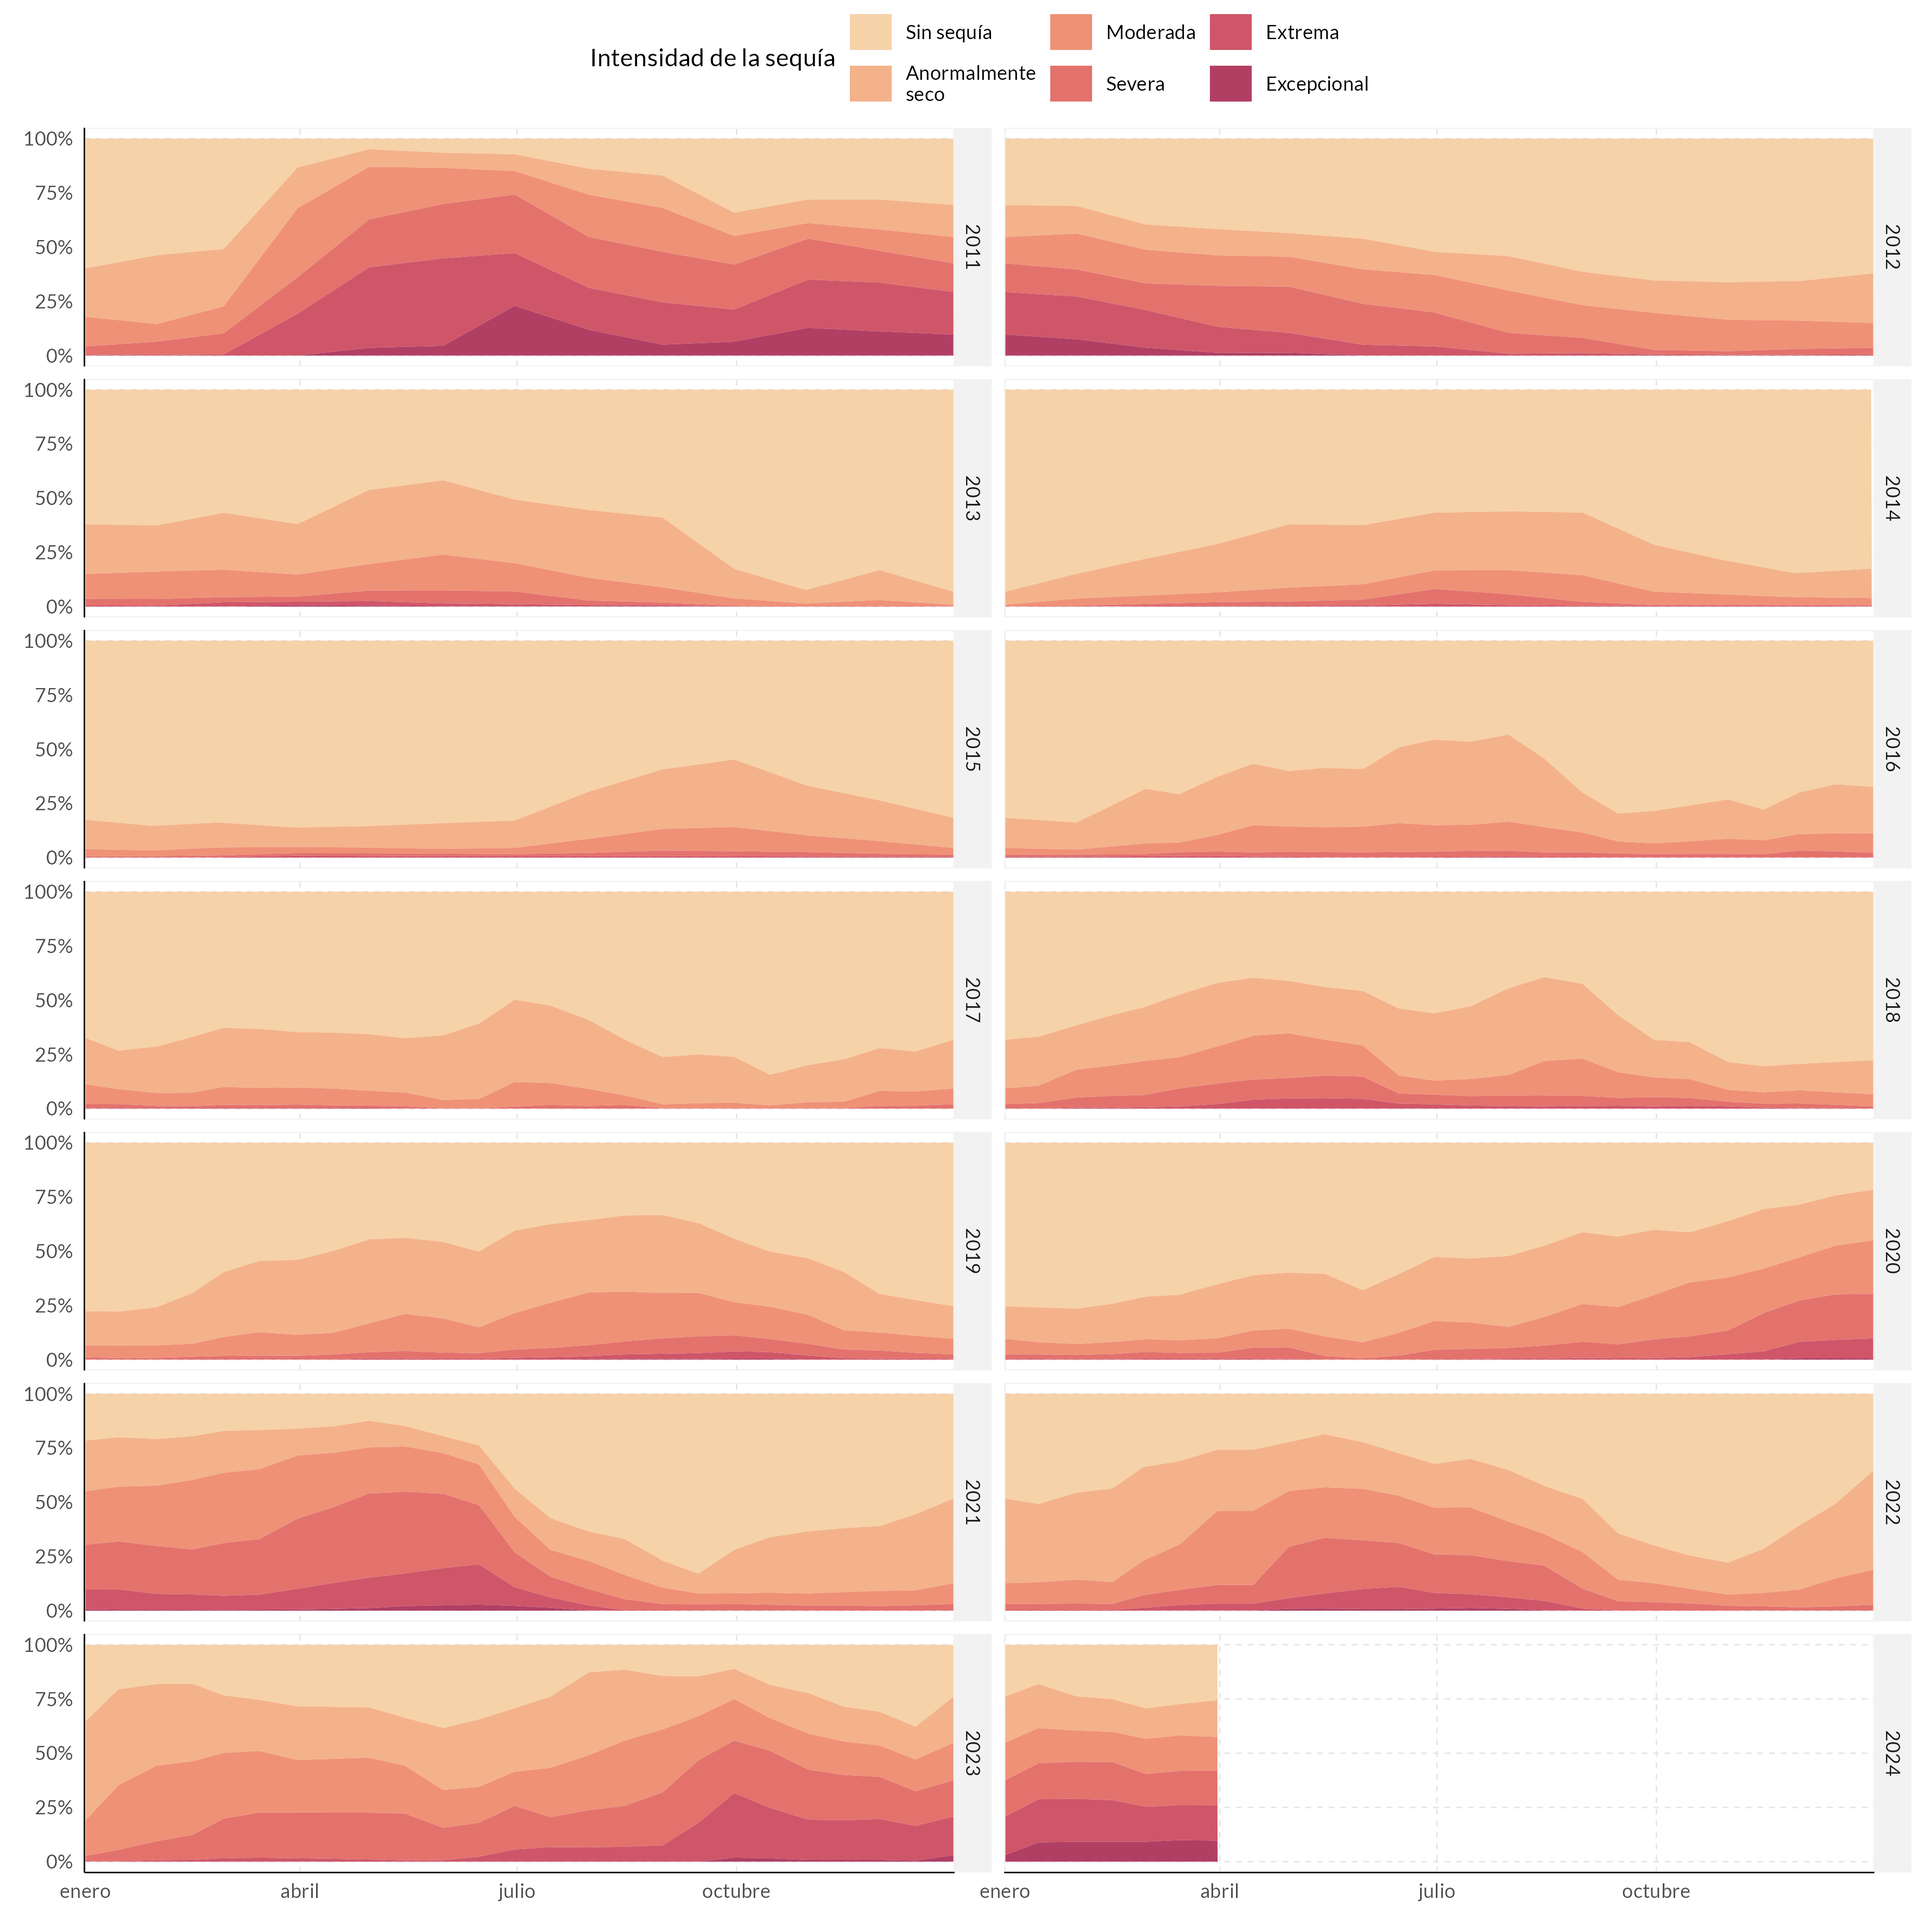
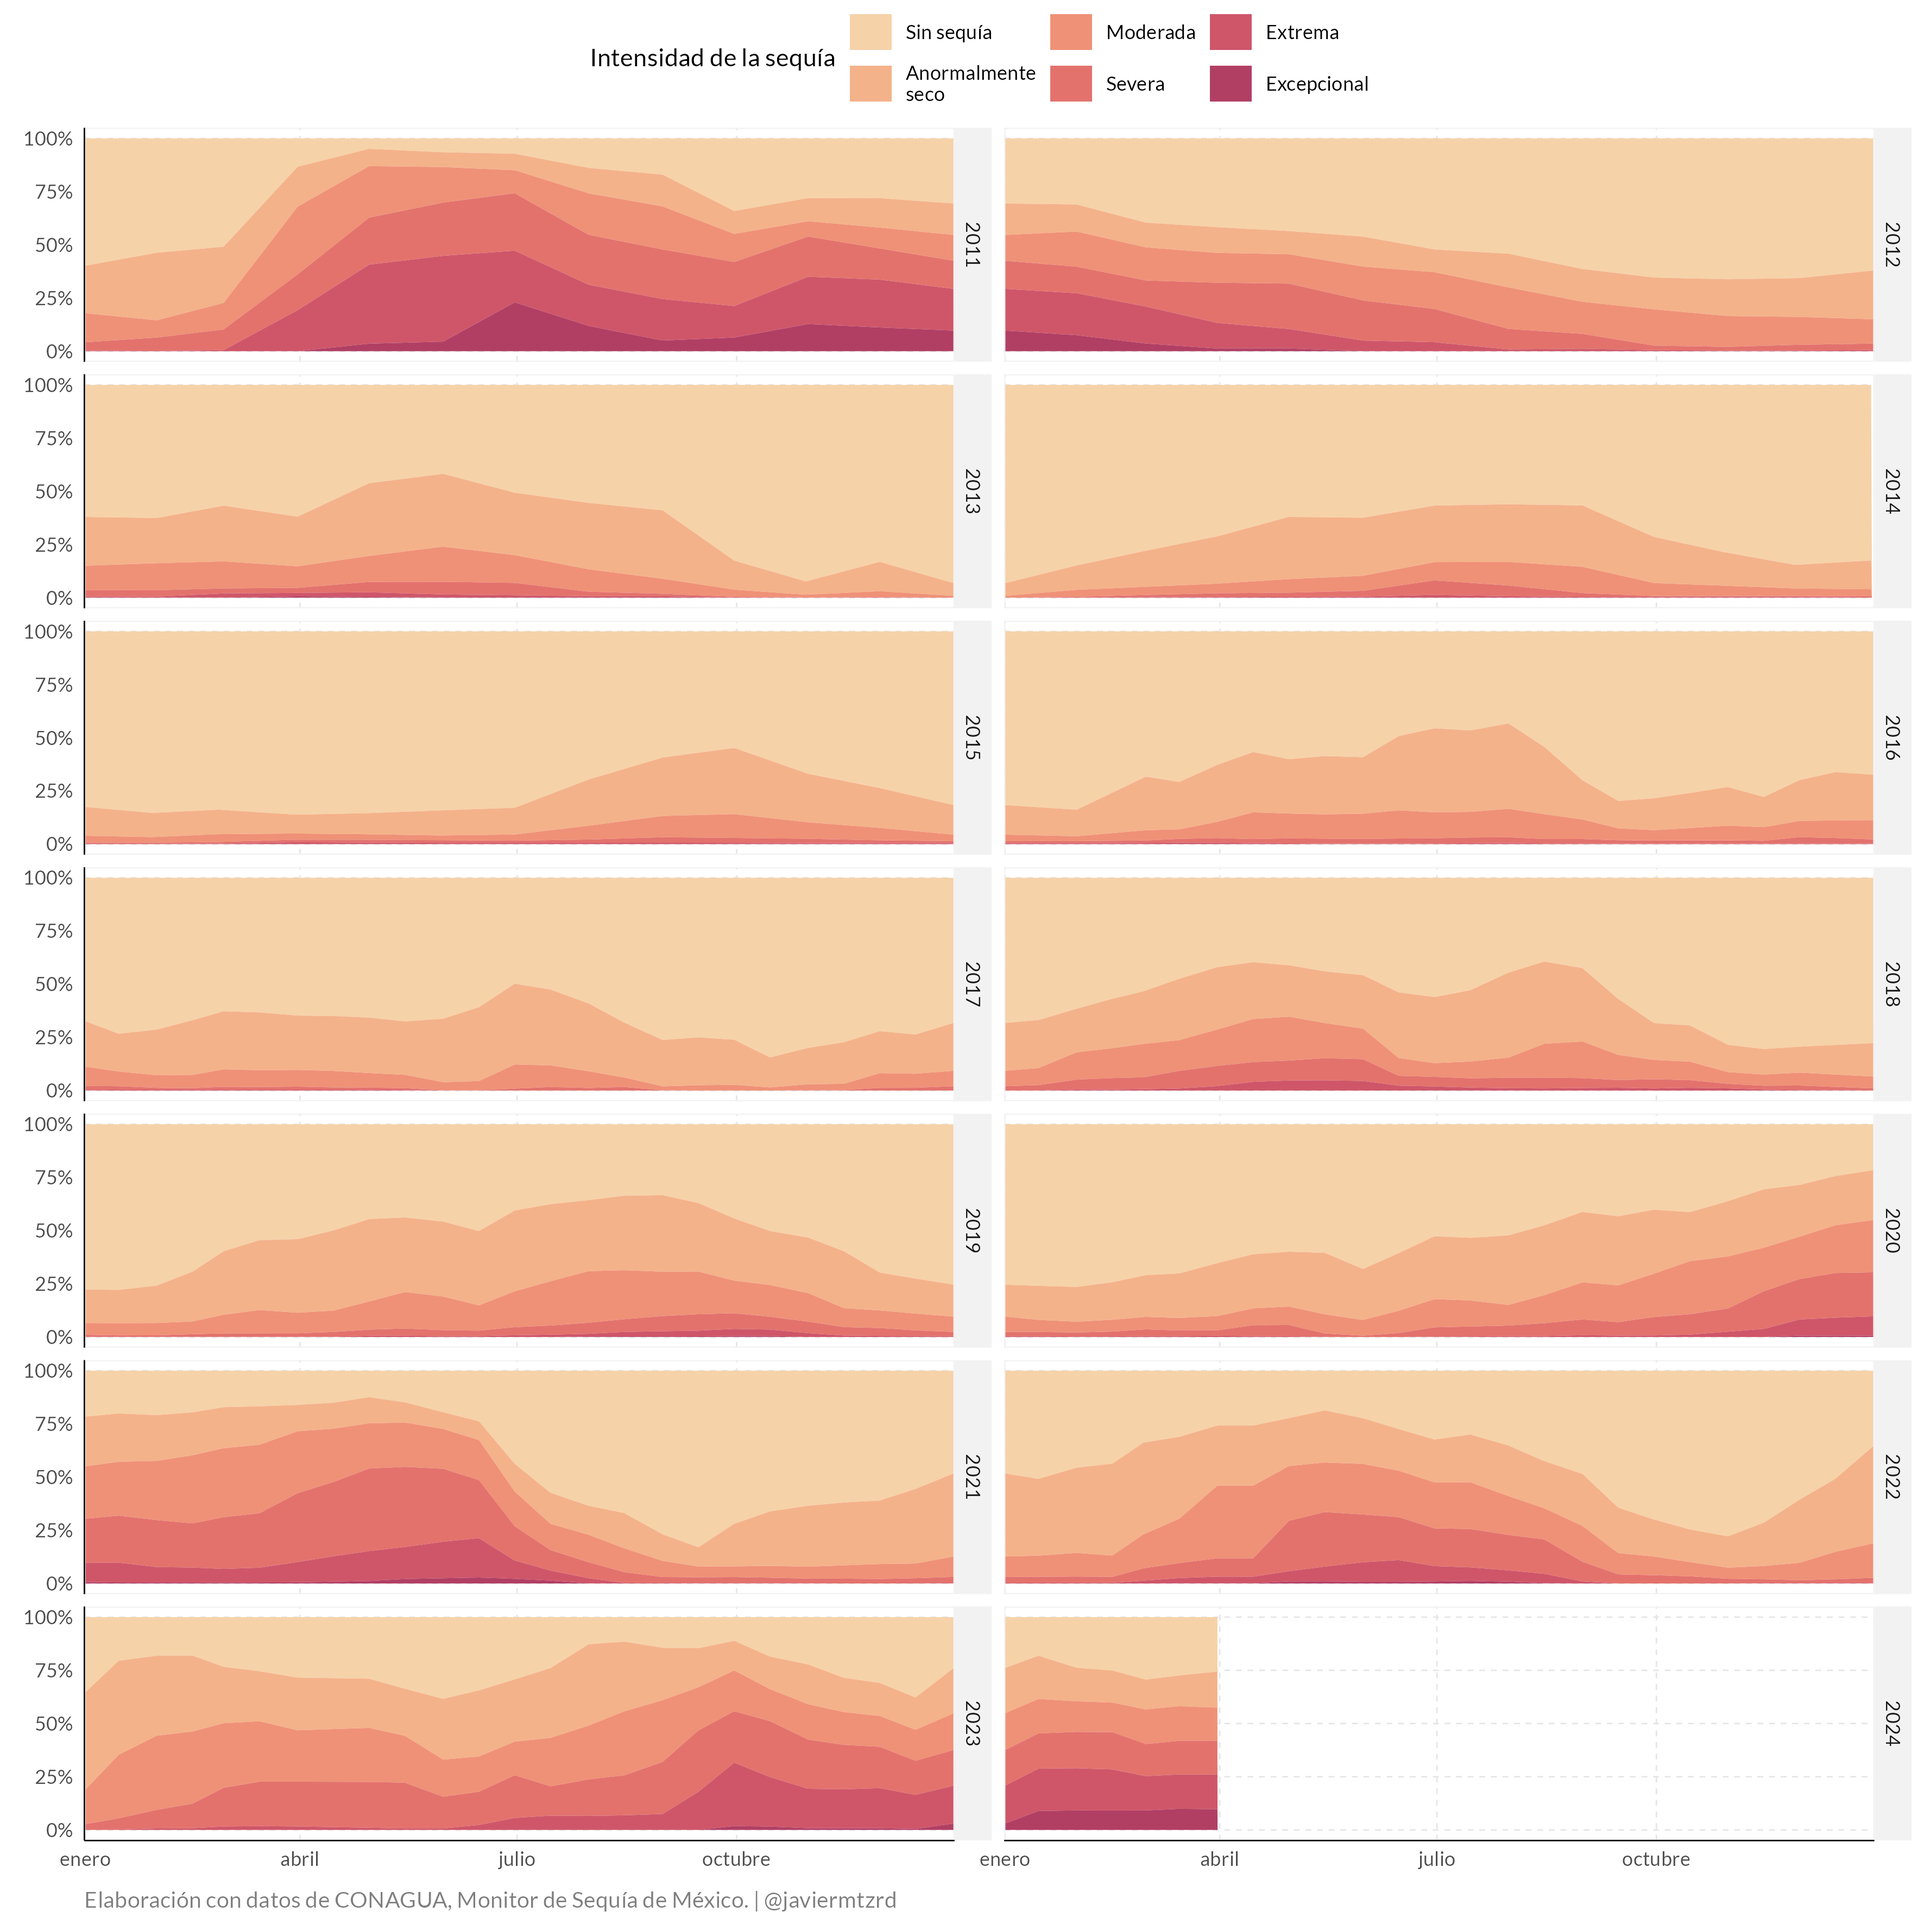
Update format of plots

diff --git a/README.md b/README.md
@@ -13,8 +13,8 @@ sequía y el almacenamiento de las presas en México.
 
 ![](02_figs/hexagonos-sequia-Mx.gif)
 
-![](02_figs/historiq-sequia.png)
+![](02_figs/historiq-sequia.jpg)
 
-![](02_figs/historiq-presas.png)
+![](02_figs/historiq-presas.jpg)
 
-![](02_figs/historiq-presas-v2.png)
+![](02_figs/historiq-presas-v2.jpg)
